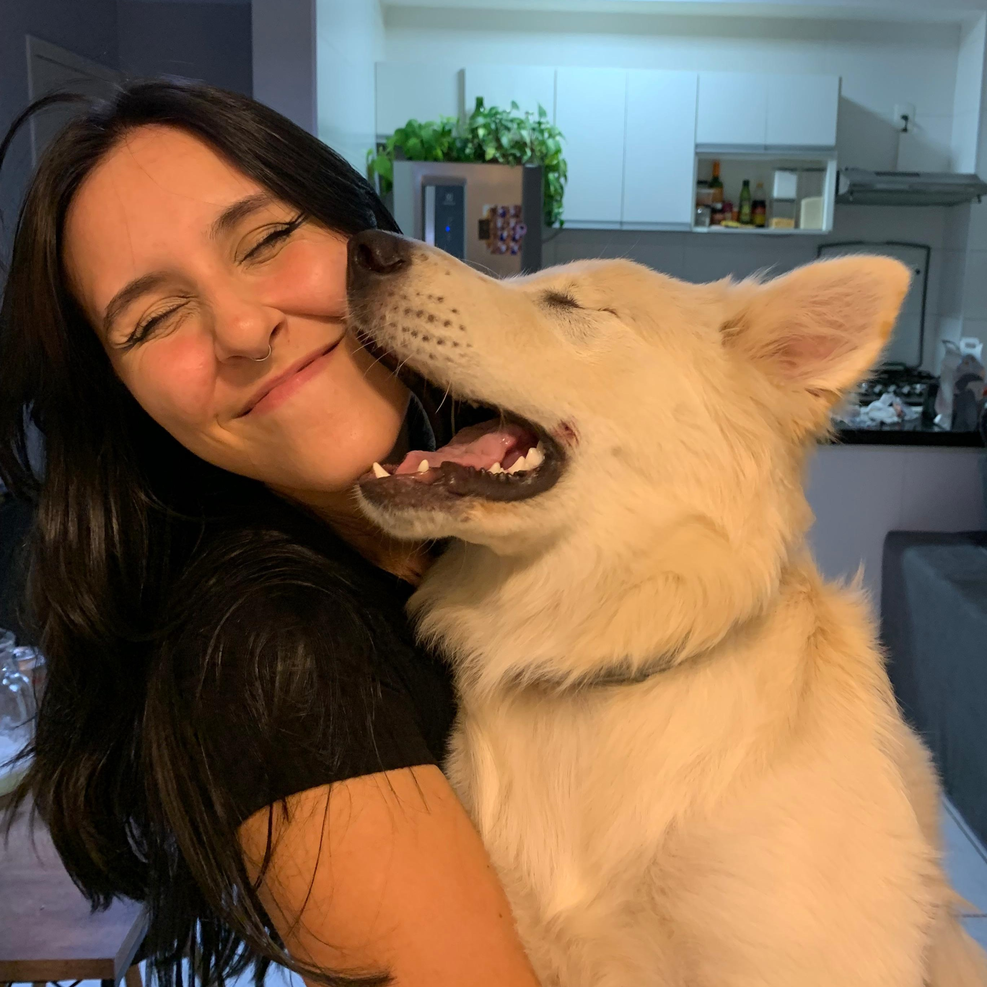
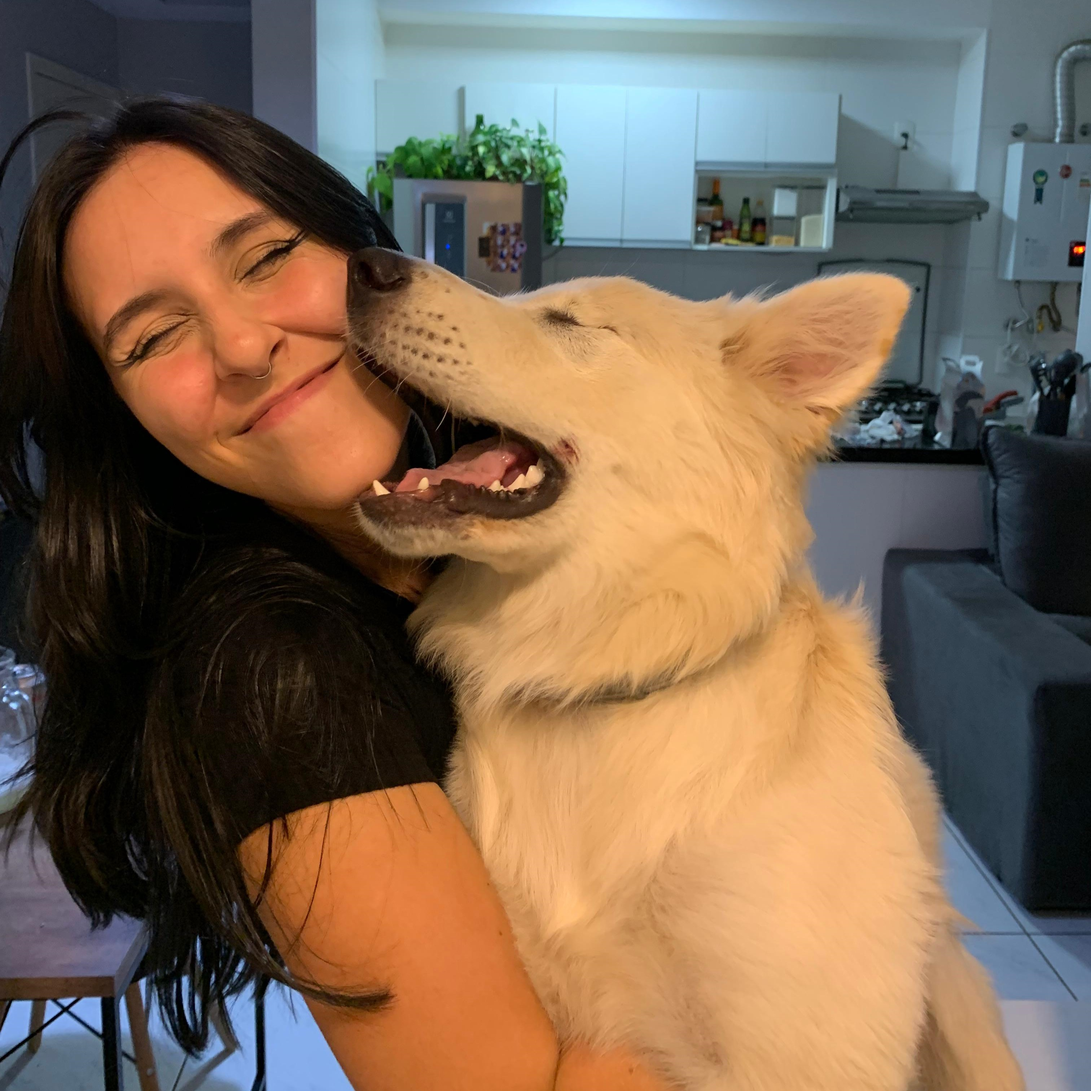
Faz ajustes gerais e implementa ContactMe list na lateral
- Troca arquivo da foto principal
- Customiza scroll lateral em App.css
- Faz ajustes e traz novos imports em App.js
- Implementa novo componente ContactMe
- Faz ajustes de responsividade em PageToolbar
- Faz ajustes gerais de estilo, centraliza um pouco mais as divs da página

diff --git a/src/components/ContactMe.js b/src/components/ContactMe.js
@@ -1,0 +1,46 @@
+import { ListItemIcon, ListItemText, MenuItem, MenuList } from '@mui/material'
+import React from 'react'
+import "../styles/ContactMe.css"
+import GitHubIcon from '@mui/icons-material/GitHub'
+import InstagramIcon from '@mui/icons-material/Instagram'
+import LinkedInIcon from '@mui/icons-material/LinkedIn'
+
+
+const ContactMe = () => {
+    return <div className='contact-list'>
+        <MenuList>
+            <MenuItem>
+                <ListItemIcon>
+                  <GitHubIcon fontSize="small" htmlColor='#7971fe'/>
+                </ListItemIcon>
+                <ListItemText>
+                    <a target="_blank" rel="noopener noreferrer" href="https://github.com/isapign/">
+                        Github
+                    </a>
+                </ListItemText>
+            </MenuItem>
+            <MenuItem>
+                <ListItemIcon>
+                  <InstagramIcon fontSize="small" htmlColor='#7971fe'/>
+                </ListItemIcon>
+                <ListItemText>
+                    <a target="_blank" rel="noopener noreferrer" href="https://www.instagram.com/isapign/">
+                        Instagram
+                    </a>
+                </ListItemText>
+            </MenuItem>
+            <MenuItem>
+                <ListItemIcon>
+                  <LinkedInIcon fontSize="small" htmlColor='#7971fe'/>
+                </ListItemIcon>
+                <ListItemText>
+                    <a target="_blank" rel="noopener noreferrer" href="https://www.linkedin.com/in/isabelly-pignatari/">
+                        LinkedIn
+                    </a>
+                </ListItemText>
+            </MenuItem>
+        </MenuList>
+    </div>
+}
+
+export default ContactMe

diff --git a/src/components/PageToolbar.js b/src/components/PageToolbar.js
@@ -11,16 +11,17 @@ const PageToolbar = (props) => {
 
     return <AppBar className="toolbar">
         <Toolbar className="toolbar">
-            <Grid container justifyContent="center" alignItems="center">
+            <Grid container justifyContent="center" alignItems="center" spacing={1}>
                 <Grid item>
                     <div className="toolbar-logo">{'< ipignatari />' }</div>
                 </Grid>
-                {pages.map((page) => <Grid item>
+                {window.innerWidth >= 850 && pages.map((page) => <Grid item>
                     <MenuItem className="toolbar-menu-item" key={page}>
                         {page}
                     </MenuItem>
                 </Grid>)}
-                <Grid item>
+                {!props.isMobile && <>
+                    <Grid item>
                     <IconButton onClick={() => props.setLightMode(!props.lightMode)}>
                         {props.lightMode ? <Brightness5Icon/> : <NightlightIcon/>}
                     </IconButton>
@@ -36,6 +37,7 @@ const PageToolbar = (props) => {
                     </a>
                     </MenuItem>
                 </Grid>
+                </>}
             </Grid>
         </Toolbar>
     </AppBar>

diff --git a/src/App.js b/src/App.js
@@ -1,24 +1,29 @@
 import { useState } from 'react'
-import './App.css'
+import { Grid } from '@mui/material'
+import PageToolbar from './components/PageToolbar'
+import ContactMe from './components/ContactMe'
 import AboutMe from './components/AboutMe'
 import Experience from './components/Experience'
 import Introduction from './components/Introduction'
-import PageToolbar from './components/PageToolbar'
 import Projects from './components/Projects'
 import "./styles/GlobalColors.css"
+import './App.css'
 
 function App() {
   const [lightMode, setLightMode] = useState(false)
+  const isMobile = window.innerWidth < 500
+
     return (
-      <div className="App">
-        <div id="content">
-            <PageToolbar lightMode={lightMode} setLightMode={setLightMode}/>
+      <Grid item xs={12} className="App">
+        <Grid container id="content">
+            <PageToolbar isMobile={isMobile} lightMode={lightMode} setLightMode={setLightMode}/>
+            <ContactMe />
             <Introduction />
             <AboutMe />
             <Experience />
             <Projects />
-        </div>
-      </div>
+        </Grid>
+      </Grid>
   )
 }
 

diff --git a/src/components/AboutMe.js b/src/components/AboutMe.js
@@ -18,7 +18,7 @@ class AboutMe extends React.Component {
   }
   render() {
     const techStack = [
-      "Javascript ES6+",
+      "Javascript",
       "Python",
       "ReactJs",
       "HTML/CSS",
@@ -46,9 +46,9 @@ class AboutMe extends React.Component {
                 <a href="https://www.usjt.br/"> USJT</a>.
               </p>
               <p>
-                Curiosidades: amo jogos, fotografia analógica, livros, corrida, animais e culinária.
+                Curiosidades: amo jogos, fotografia analógica, livros, corrida de rua, animais e culinária.
               </p>
-              <p>Algumas das principais tecnologias que tenho trabalhado:</p>
+              <p>Recentemente tenho trabalhado com essas tecnologias:</p>
               <ul>
                 {techStack.map(function (t, i) {
                   return (

diff --git a/src/components/Introduction.js b/src/components/Introduction.js
@@ -38,7 +38,7 @@ class Introduction extends React.Component {
         <FadeSection>
           <div className="introduction-description">
             <p>{'Desenvolvedora de software apaixonada por programação.'}</p>  
-            <p>{'Amo saber mais sobre desenvolvimento de jogos, animação, robôs, segurança da informação e o uso da tecnologia para fins ecológicos.'}</p>
+            <p>{'Amo aprender sobre desenvolvimento de jogos, animação, segurança da informação e o uso da tecnologia para fins ecológicos.'}</p>
           </div>
         </FadeSection>
       </div>

diff --git a/src/styles/ContactMe.css b/src/styles/ContactMe.css
@@ -1,0 +1,27 @@
+.contact-list {
+    position: fixed;
+    right: 0;
+    bottom: 0;
+}
+
+.contact-list ul {
+    float: right;
+    text-align: left;
+    padding: 10px 2px;
+    margin: 10px 40px;
+}
+
+.contact-list ul li span{
+    font-family: "Poppins", sans-serif;
+    font-weight: 600;
+    font-size: 16px;
+}
+
+.contact-list ul li a{
+    text-decoration: none;
+    color: white;
+}
+
+.contact-list ul li a:hover{
+    color: #7971fe;
+}

diff --git a/src/styles/Experience.css b/src/styles/Experience.css
@@ -1,6 +1,6 @@
 #experience {
     min-height: 60vh;
-    margin: 8% 8% 0 12%;
+    margin: 8% 8% 0 20%;
     align-items: flex-start;
   }
   
@@ -88,6 +88,11 @@
   .job-description b {
     font-size: 19px;
     font-weight: bold;
+  }
+
+  .experience-content {
+    display: flex;
+    flex-direction: row;
   }
   
   @media only screen and (max-width: 600px) {

diff --git a/src/styles/Toolbar.css b/src/styles/Toolbar.css
@@ -10,7 +10,7 @@
     font-size: 16px;
     font-weight: bolder;
     font-family: "font-roboto", monospace;
-    padding: 5px 20px;
+    padding: 5px 10px;
     cursor: pointer;
     border: 1px solid var(--primary);
     color: var(--primary) !important;
@@ -29,4 +29,5 @@
 
 .toolbar-logo {
     font-family: "Kanit", sans-serif;
+    padding-right: 8px;
 }

diff --git a/src/App.css b/src/App.css
@@ -2,6 +2,19 @@ html {
   scroll-behavior: smooth;
 }
 
+::-webkit-scrollbar {
+  width: 10px;
+}
+
+::-webkit-scrollbar-track {
+  background-color: #3e3e46;
+}
+
+::-webkit-scrollbar-thumb {
+  background-color: rgb(100, 99, 116);
+  border-radius: 10px;
+}
+
 .fade-in-section {
   opacity: 0;
   transform: translateY(10vh);

diff --git a/src/styles/AboutMe.css b/src/styles/AboutMe.css
@@ -1,6 +1,6 @@
 #about {
     min-height: 60vh;
-    margin: 8% 8% 0 12%;
+    margin: 8% 8% 0 20%;
     align-items: flex-start;
 }
 
@@ -23,7 +23,7 @@
 }
 
 .about-description li::before {
-    content: "▹    ";
+    content: "☾    ";
     color: var(--primary);
     position: absolute;
     left: 0;

diff --git a/src/styles/Introduction.css b/src/styles/Introduction.css
@@ -3,7 +3,7 @@
   flex-direction: column;
   align-items: flex-start;
   min-height: 60vh;
-  margin: 8% 8% 0 12%
+  margin: 8% 8% 0 20%;
 }
 
 .Typist {
